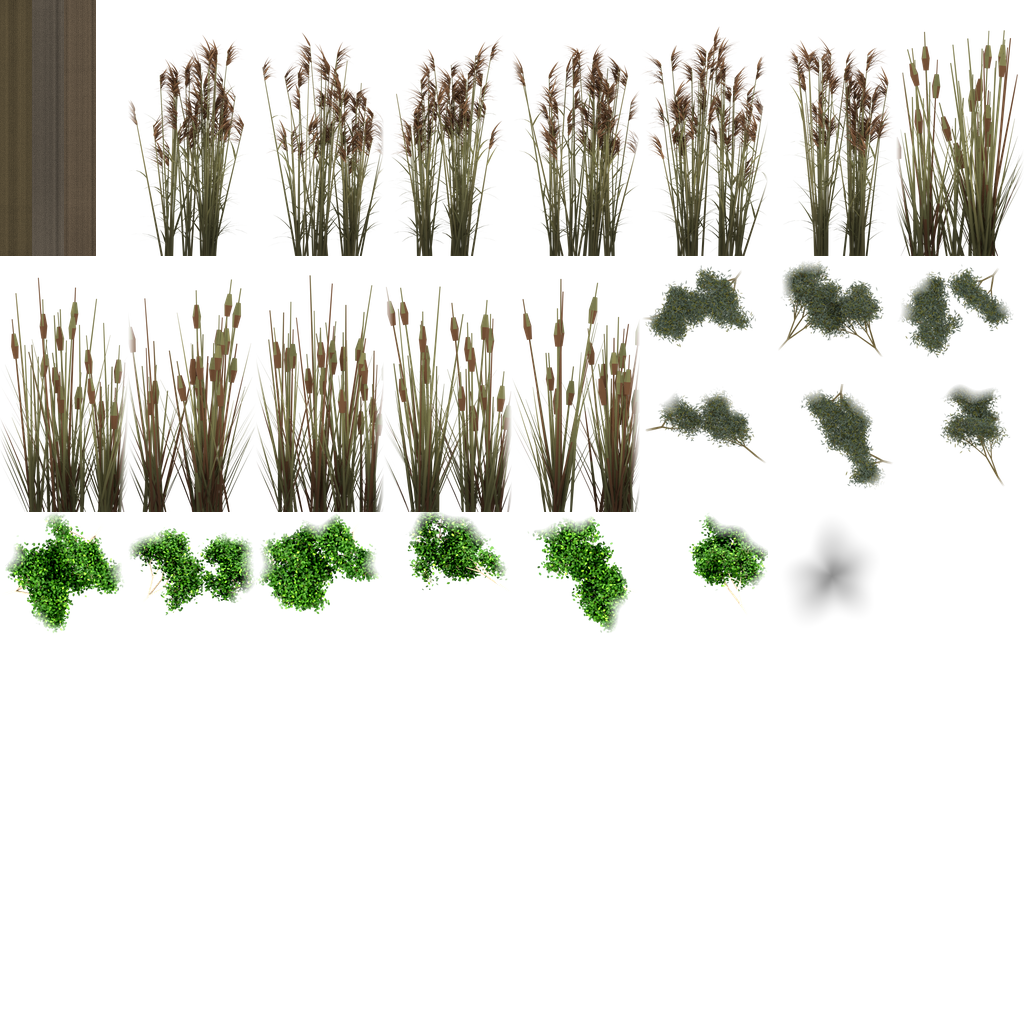
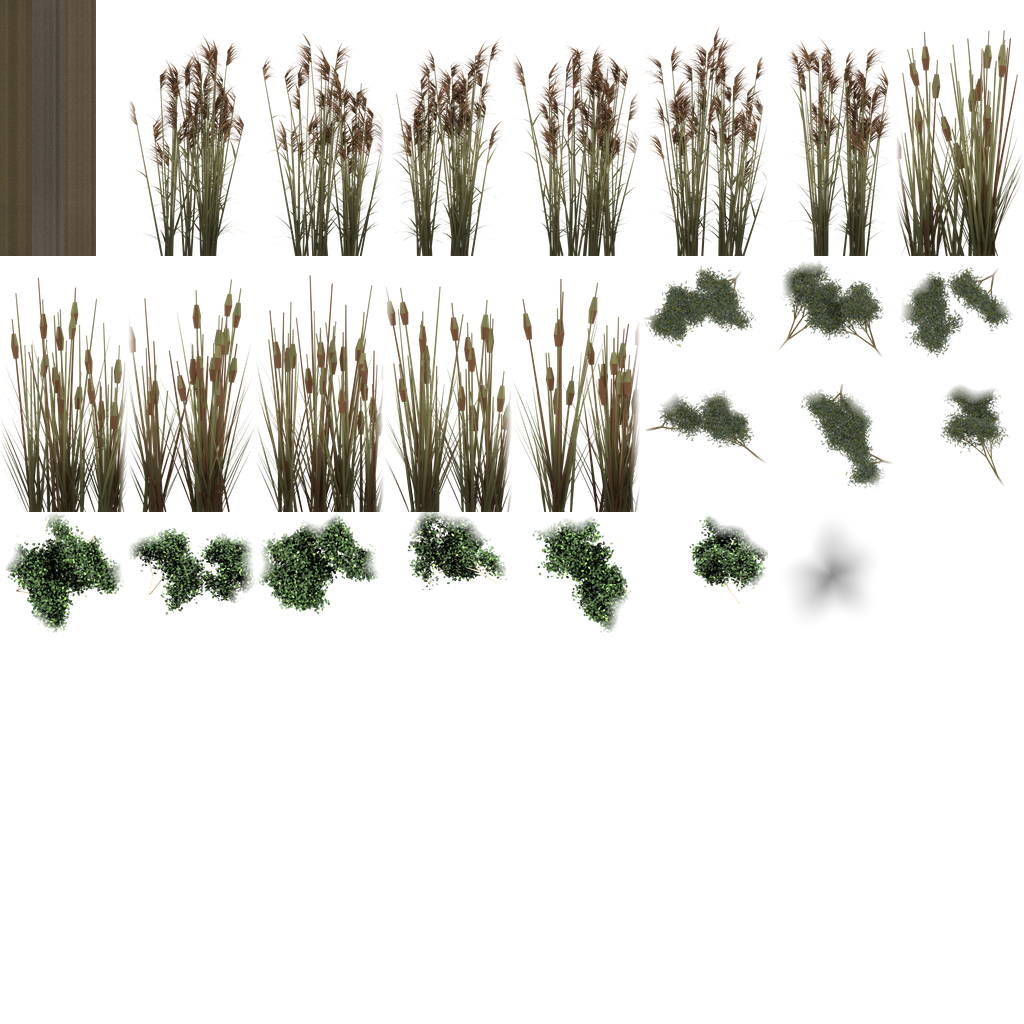
fix(battle): береговий кущ вільхи оливковий, а не салатовий
Підсилення тону вільхи в атласі розтягувало контраст кожного каналу від спільного сірого
середнього, і разом із яскравістю множилась насиченість: листя виходило яскраво-салатовим
(насиченість середнього кольору 0,72 проти 0,17–0,27 у верболозу). Тепер розтягується лише
яскравість, а колір текселя множиться на одне число, тож відтінок спрайта лишається.
Перезібрано атласи bank_veg_* (лише клітинки вільхи; очерет, рогіз і верболіз без змін,
розкладка та GLB ті самі). Тест стежить за насиченістю листя берегових кущів.

diff --git a/tools/blender/vegetation/veg_atlas.py b/tools/blender/vegetation/veg_atlas.py
@@ -204,12 +204,15 @@ def main():
             g = GAIN.get(kind, {}).get(season)
             if g:
                 # Підсилення тону з розтягом контрасту навколо нового середнього: просте множення
-                # пригнічувало різницю між листям і темним гіллям усередині куща.
+                # пригнічувало різницю між листям і темним гіллям усередині куща. Розтягується лише
+                # яскравість, а колір текселя множиться на одне число: розтяг кожного каналу від
+                # сірого множить і насиченість, і кущ стає салатовим.
                 mk = img[..., 3] > 0.5
                 new = img[..., :3] * g
                 if mk.any():
-                    mu = new[mk].mean()
-                    img[..., :3] = np.clip(mu + (new - mu) * 2.8, 0, 1)
+                    lum = new.mean(-1, keepdims=True)
+                    mu = lum[mk].mean()
+                    img[..., :3] = np.clip(new * (mu + (lum - mu) * 2.8) / np.maximum(lum, 1e-3), 0, 1)
                 else:
                     img[..., :3] = np.clip(new, 0, 1)
             seed += 1
